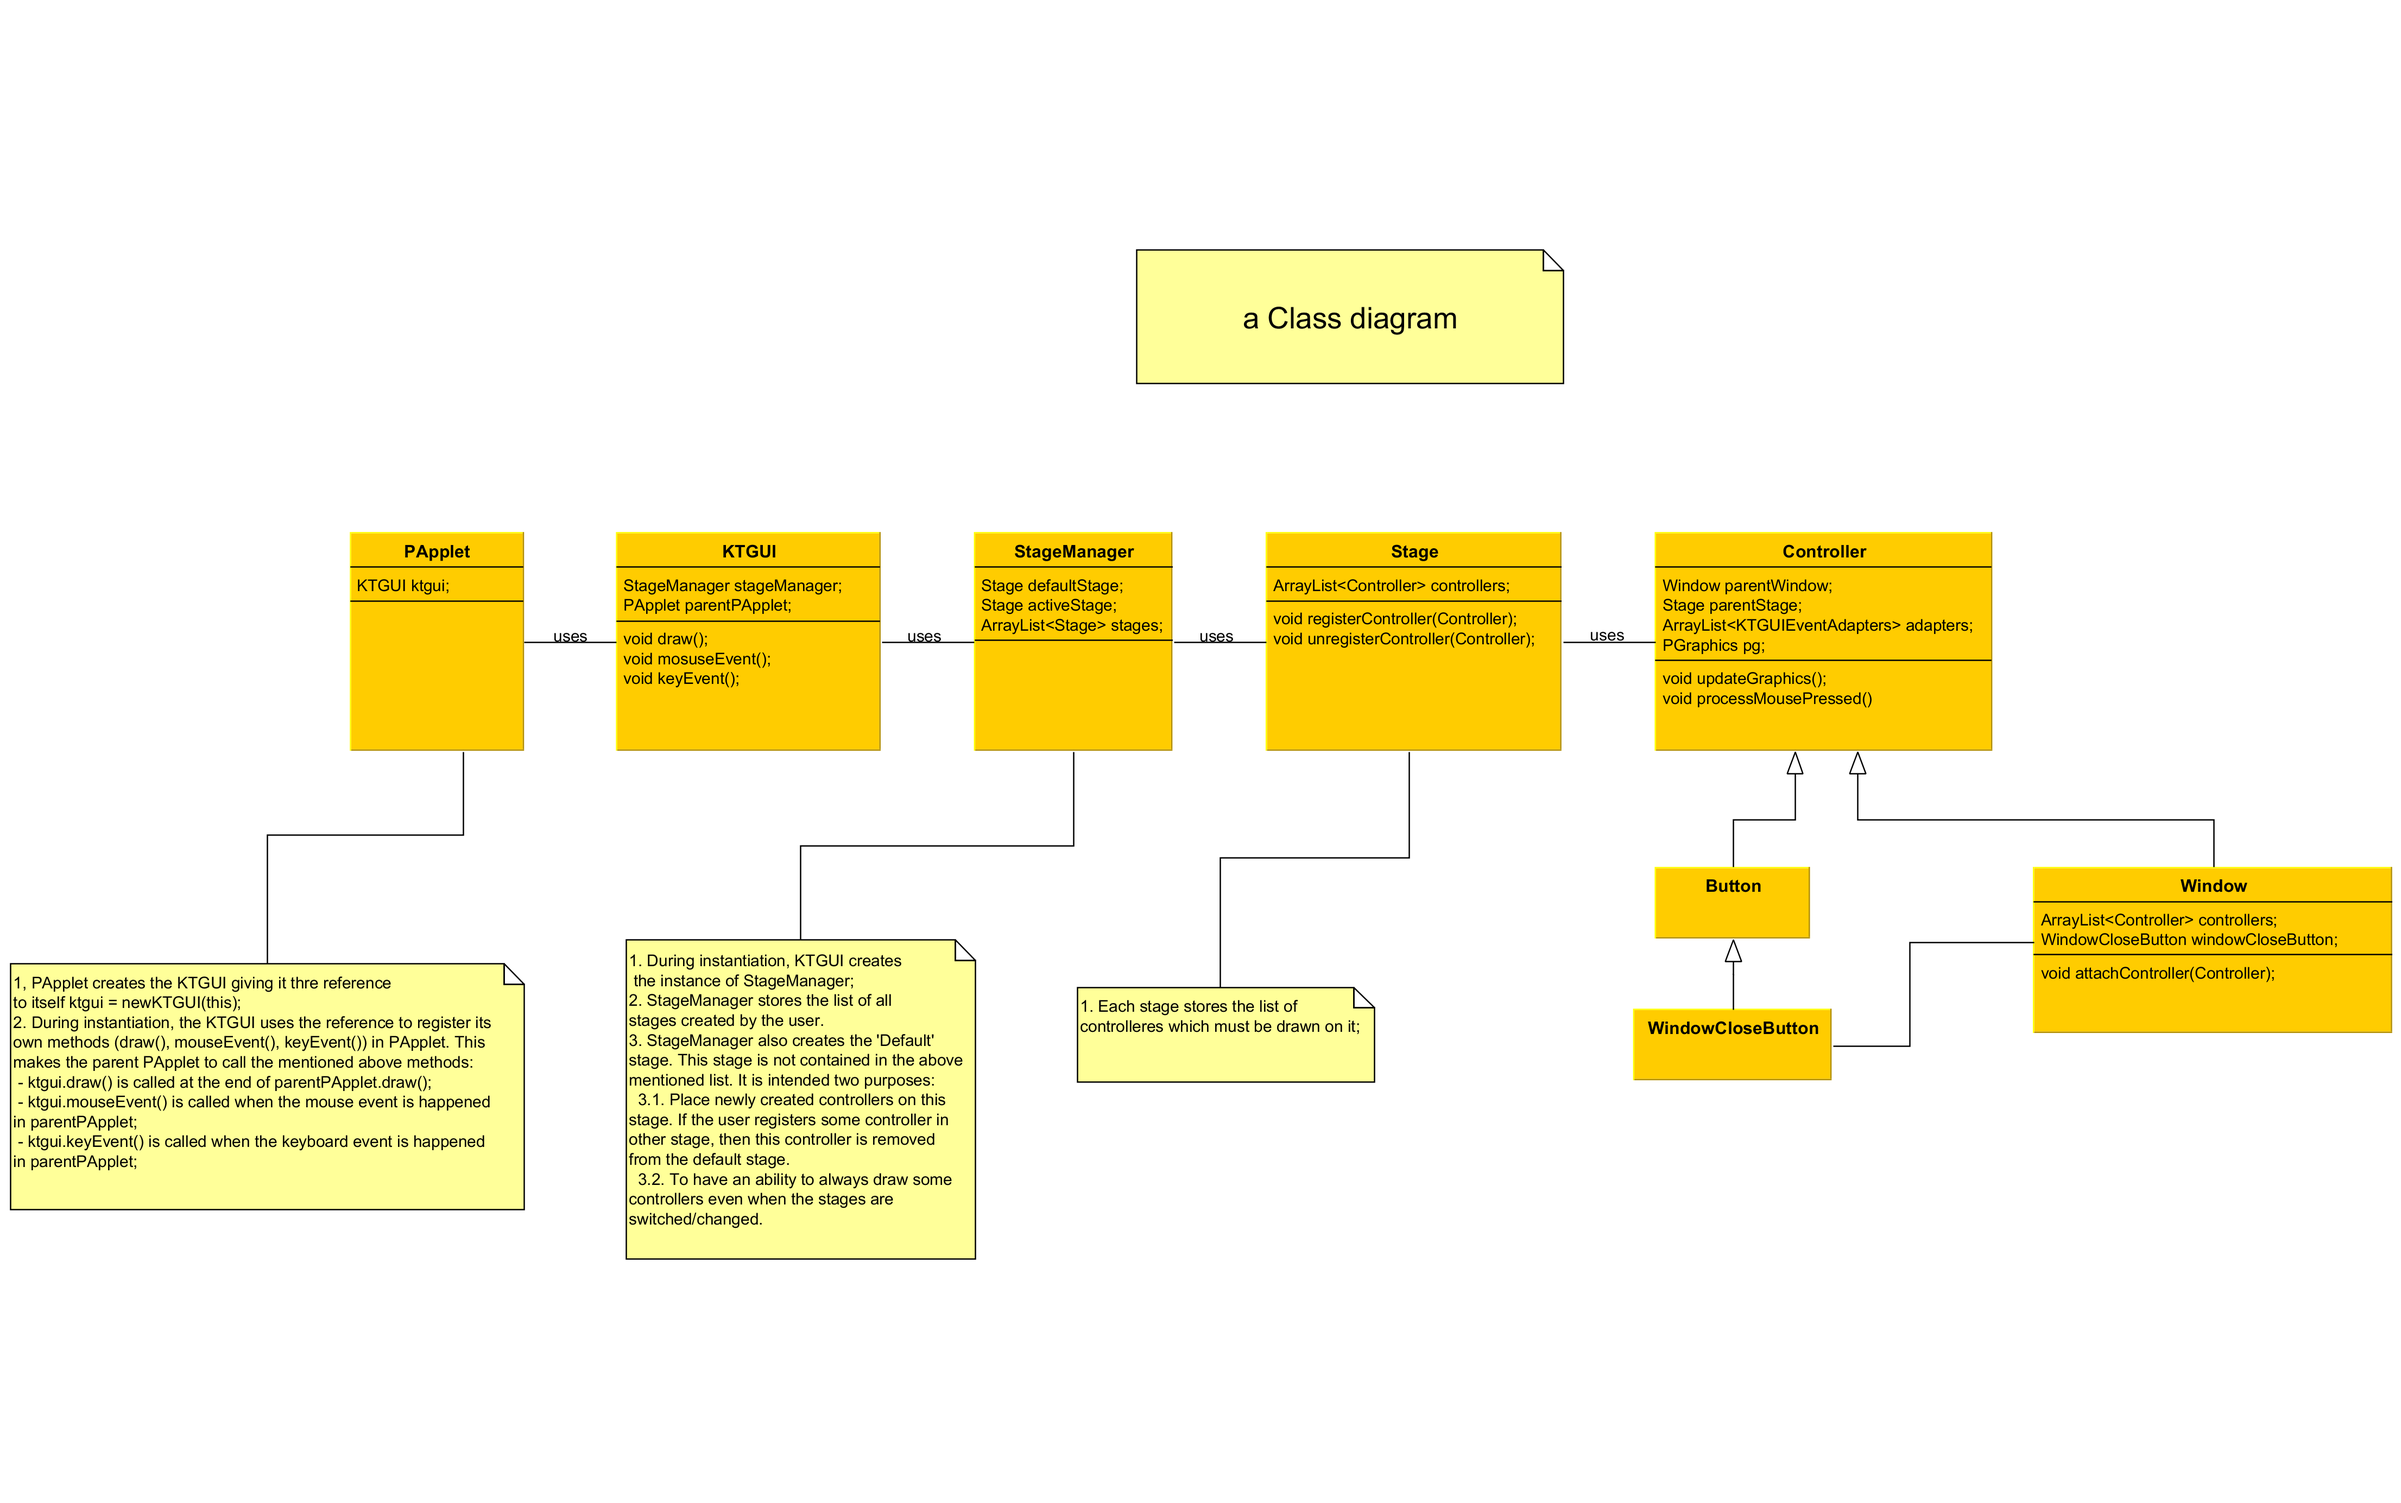
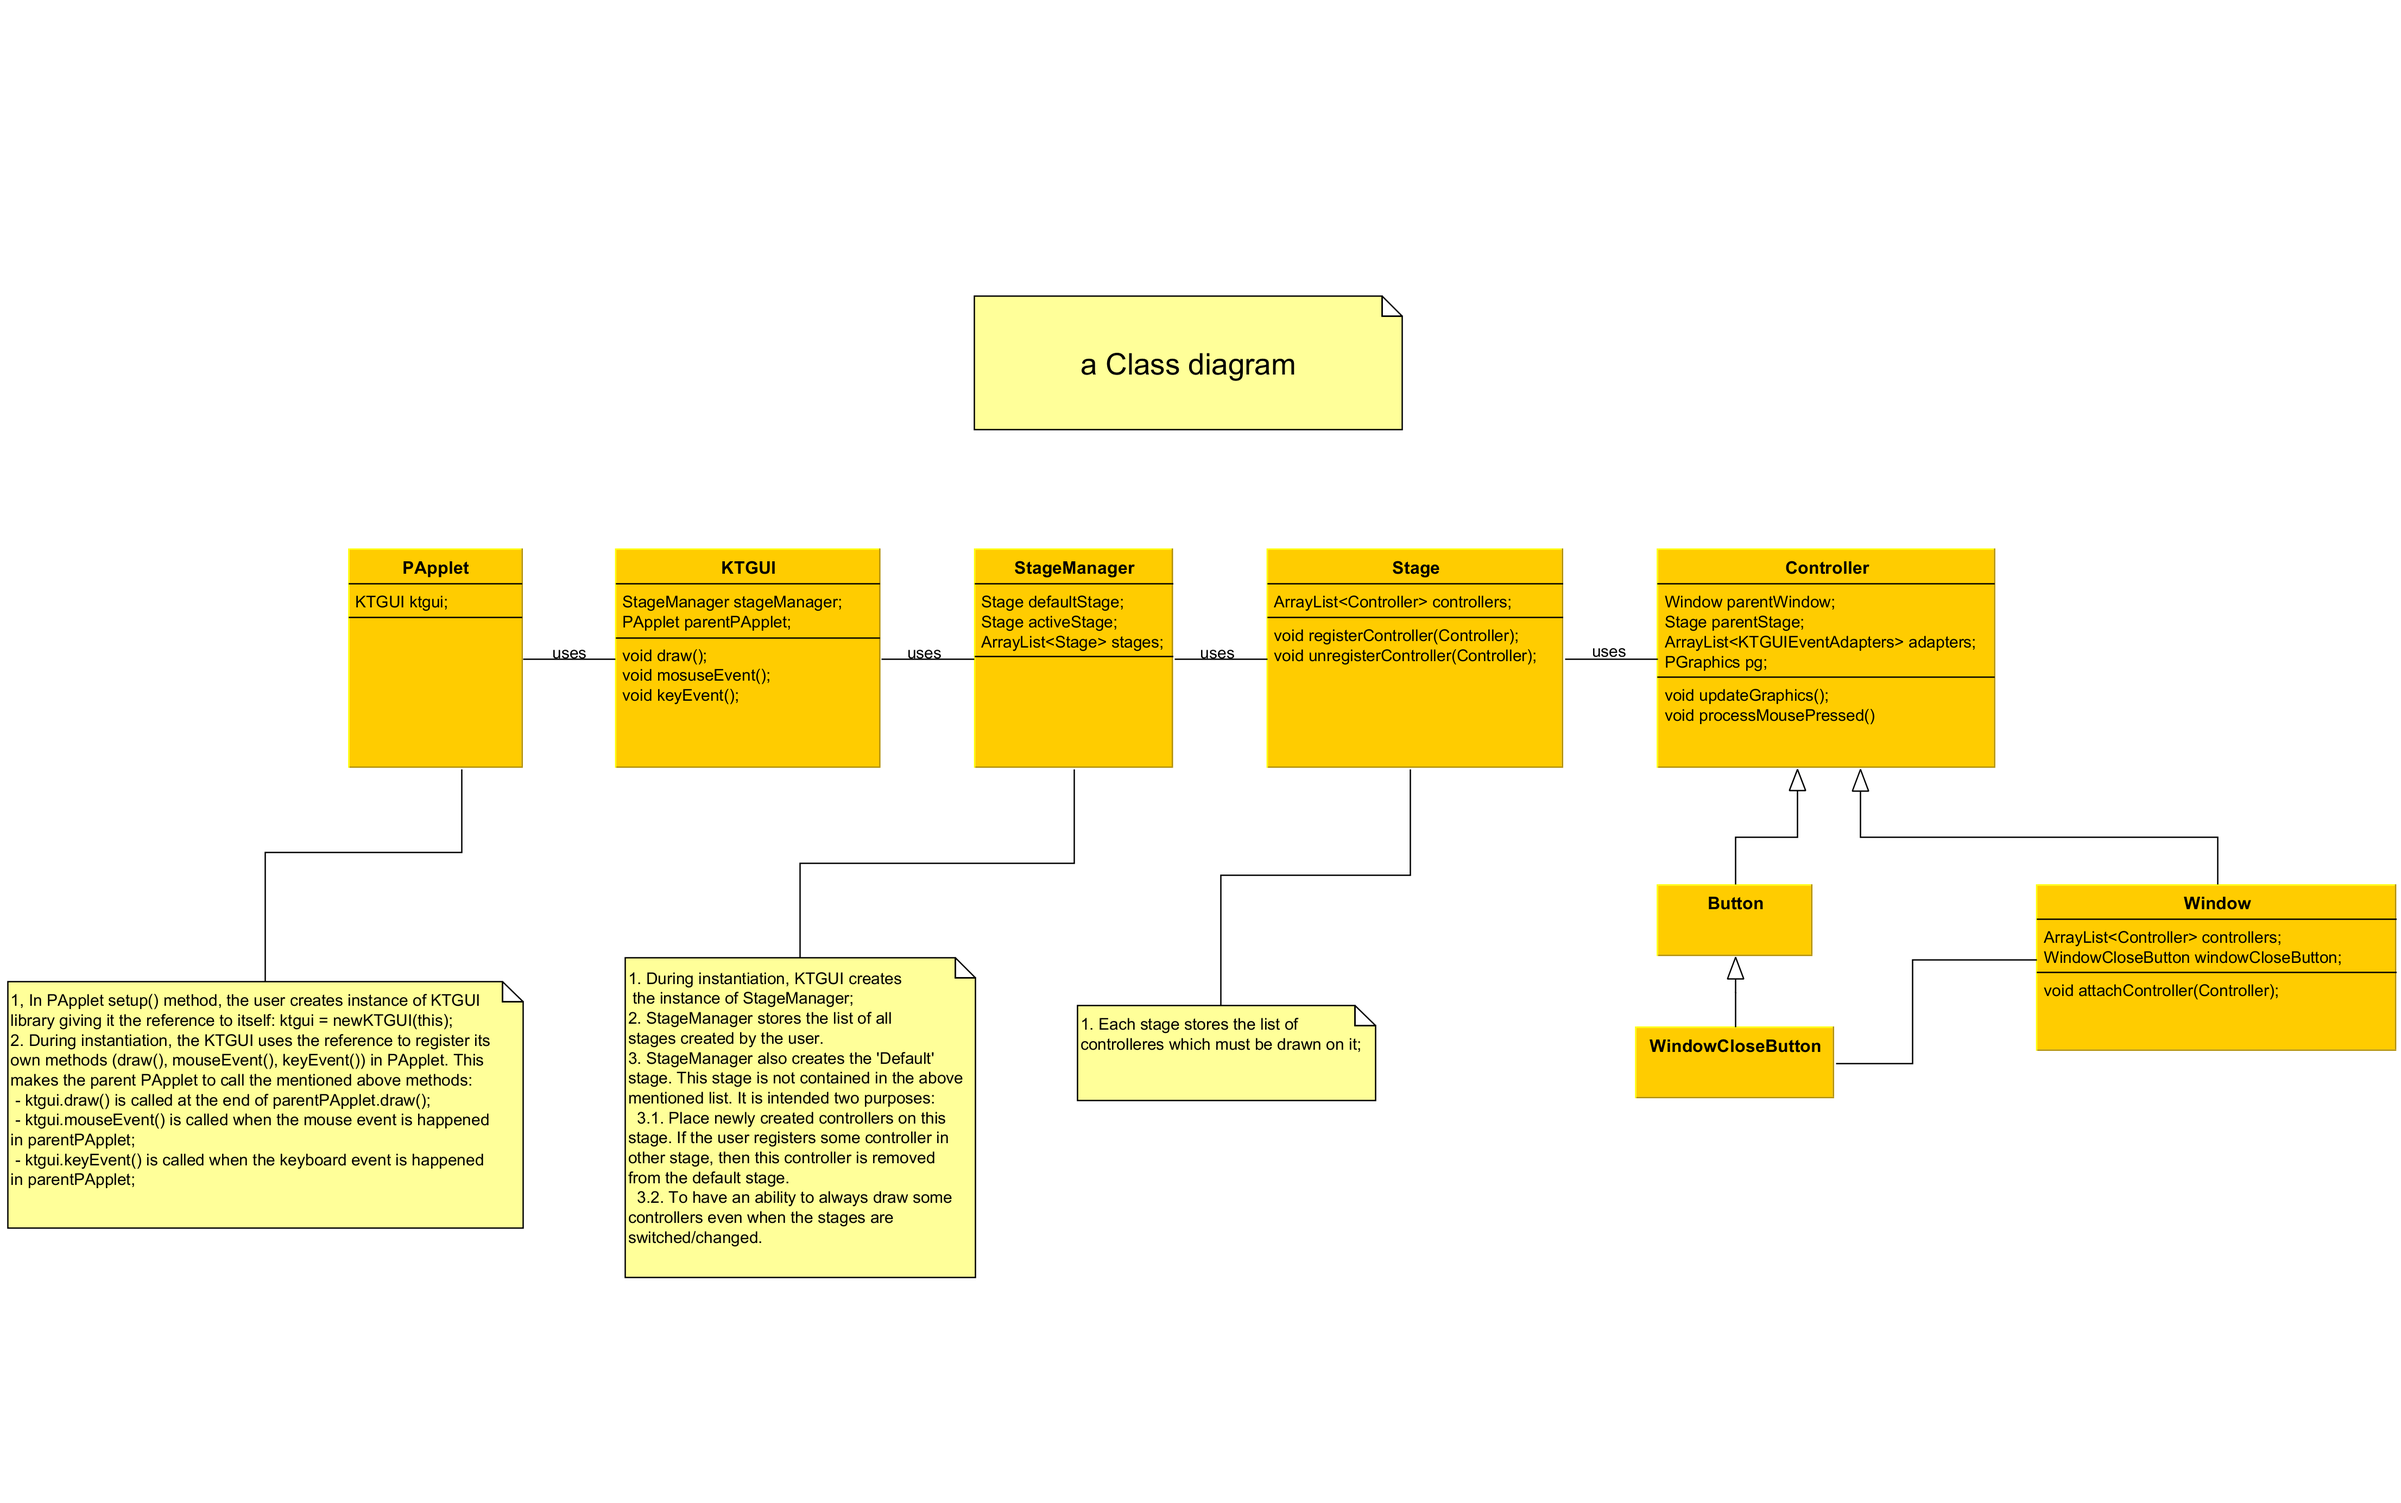
Updated 'Class-Diagram.png' image.

diff --git a/GUI-library/Documentation/GUI-Documentation.md b/GUI-library/Documentation/GUI-Documentation.md
@@ -29,7 +29,7 @@
     + [KTGUI Library](#ktgui-library)
       - [The concept of 'main' and 'GUI' related code separation](#the-concept-of-main-and-gui-related-code-separation)
       - [The implementation of 'main' and 'GUI' related code separation](#the-implementation-of-main-and-gui-related-code-separation)
-      
+
 
 ## Introduction
 
@@ -475,7 +475,7 @@ The full list of these 'specific' methods can be found [here](https://github.com
 
 #### Class diagram for the KTGUI library
 
-![class diagram](https://github.com/ktbyte/processing-libraries/blob/GUI/KTBYTEDEV-618-align-component/GUI-library/Documentation/.images/Class-Diagram.png)
+![class diagram](https://raw.githubusercontent.com/ktbyte/processing-libraries/GUI/KTBYTEDEV-618-align-component/GUI-library/Documentation/.images/Class-Diagram.png)
 
 
 #### The implementation of 'main' and 'GUI' related code separation 
